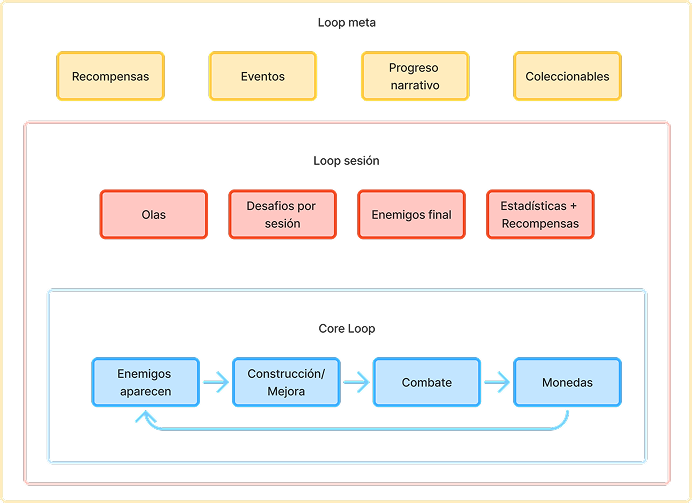
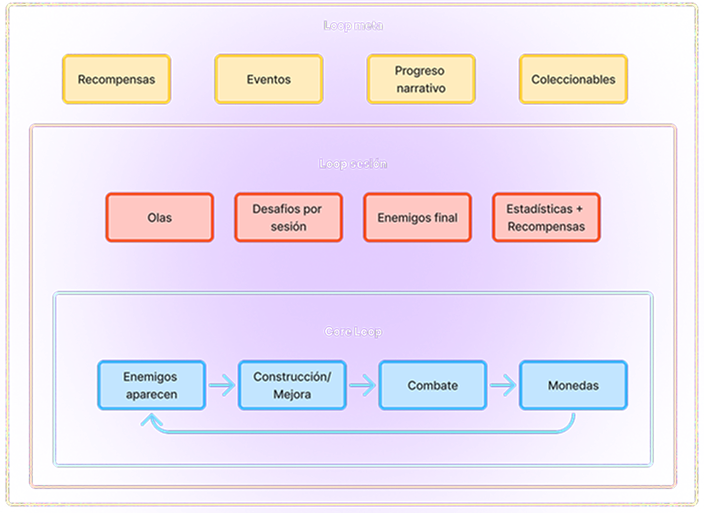
cambios chicos

diff --git a/proyecto-towerdefense.tsx b/proyecto-towerdefense.tsx
@@ -273,8 +273,6 @@ export default function ProyectoTowerDefense() {
               </div>
             </section>
 
-
-
       {/* Software Interface + Problem & Objective */}
       <section className="px-6 py-16 bg-[#0B001A]">
         <div className="max-w-6xl mx-auto">
@@ -308,6 +306,46 @@ export default function ProyectoTowerDefense() {
           </div>
         </div>
       </section>
+
+<section className="px-6 py-20 bg-[#0B001A]">
+  <div className="max-w-6xl mx-auto relative">
+    
+    {/* CARD */}
+    <div className="bg-[#121826] border border-white/10 rounded-3xl md:p-10 grid md:grid-cols-2 gap-10 items-center">
+      
+      {/* TEXTO */}
+      <div>
+        <span className="text-sm text-[#7C8DB5] uppercase tracking-wider mb-4 block">
+          Game Concept
+        </span>
+
+        <h2 className="text-4xl md:text-3xl font-semibold text-white mb-6 leading-tight">
+          ¿Qué es un juego de Tower Defense?
+        </h2>
+
+        <p className="text-[#AAB3C5] leading-relaxed text-m">
+      Un Tower Defense es un juego de estrategia en el que el jugador debe defender una base colocando y mejorando torres a lo largo de un recorrido, con el objetivo de frenar oleadas de enemigos antes de que lleguen al final. Combina planificación, gestión de recursos y toma de decisiones tácticas.
+        </p>
+      </div>
+
+      {/* IMAGEN */}
+      <div className="relative">
+        <div className="absolute inset-0 bg-gradient-to-tr from-[#3B82F6]/20 to-transparent rounded-2xl blur-xl" />
+        
+        <img
+          src="/queestowerdefense.png"
+          alt="Mapa Tower Defense"
+              width={160}
+                height={200}
+          className="relative rounded-2xl w-140 h-70 object-cover border border-white/10"
+        />
+      </div>
+
+    </div>
+
+  </div>
+</section>
+
   
  {/*Wireframes*/}
       <section className="px-6 pt-24 md:pt-32 pb-16 bg-[#0B001A]">
@@ -323,7 +361,7 @@ export default function ProyectoTowerDefense() {
                 animate={{ opacity: 1, x: 0 }}
                 transition={{ duration: 0.8, delay: 0.3 }}
               >
-                <div className="w-full h-90 relative">
+                <div className="w-full h-93 relative">
                   <Image
                     src="/wireframeTD.png"
                     alt="Jalife Project"
@@ -418,9 +456,9 @@ export default function ProyectoTowerDefense() {
                 animate={{ opacity: 1, x: 0 }}
                 transition={{ duration: 0.8, delay: 0.3 }}
               >
-                <div className="w-full h-80 relative">
+                <div className="w-full h-85 relative">
                   <Image
-                    src="/wireframe1.png"
+                    src="/wireframe11.png"
                     alt="Jalife Project"
                     fill
                     className="object-cover"
@@ -542,13 +580,13 @@ export default function ProyectoTowerDefense() {
         </div>
       </section>
 
-            <ScrollReveal>
+           
               <section className="px-6 py-16 bg-[#0B001A]">
                 <div className="max-w-6xl mx-auto">
                   <DesignCarousel />
                 </div>
               </section>
-            </ScrollReveal>
+          
 
       {/* Footer CTA */}
       <section className="px-6 py-16 bg-[#0B001A]">

diff --git a/portfolio.tsx b/portfolio.tsx
@@ -554,11 +554,6 @@ function ContactSection() {
                   text: "LinkedIn",
                   url: "https://www.linkedin.com/in/milagros-dziuban-dise%C3%B1adora/",
                 },
-                {
-                  icon: "be",
-                  text: "Behance",
-                  url: "https://www.behance.net/milagrosdziuban1",
-                },
               ].map((item, index) => (
                 <motion.a
                   key={index}